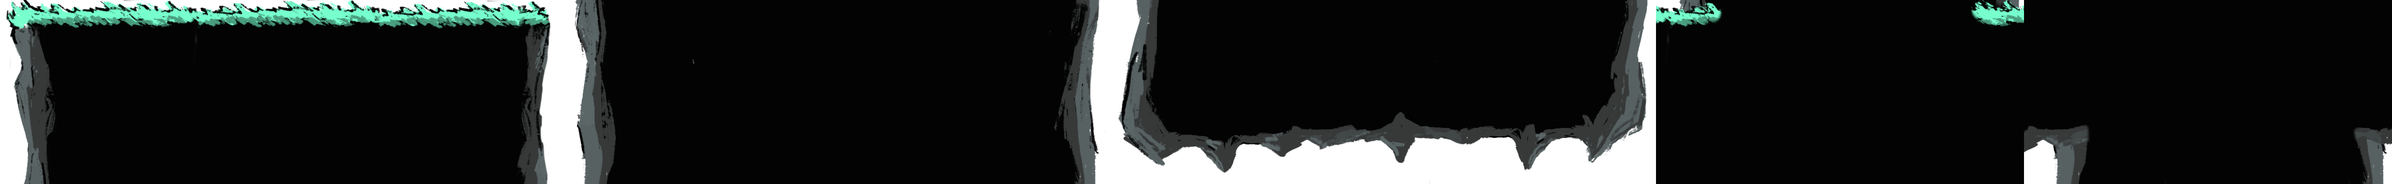
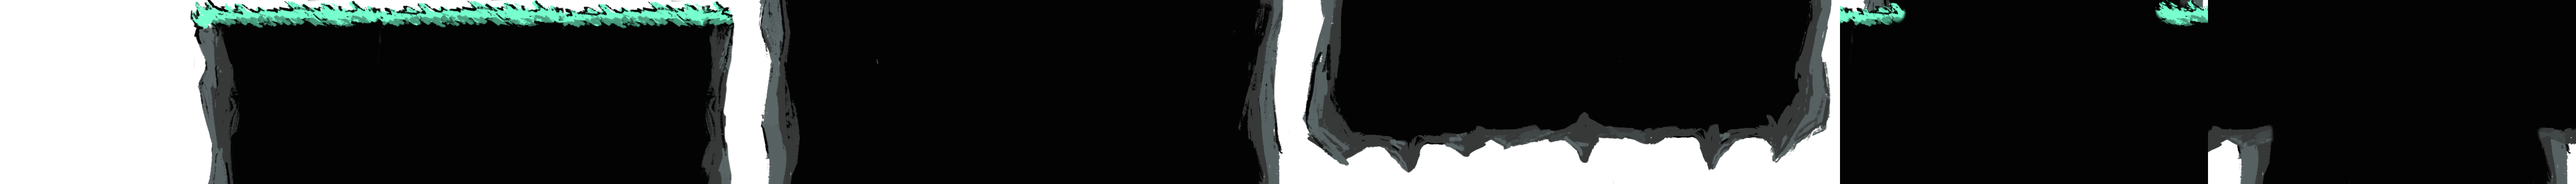
We Have A Map

diff --git a/src/DungeonMap.cpp b/src/DungeonMap.cpp
@@ -41,26 +41,16 @@ DungeonMap::DungeonMap() {
 	{
 		{
 		//	 0 1 2 3 4 5 6 7 8 9 0 1 2 3 4 5 6 7 8 9
-			{0,0,0,0,0,0,0,0,0,0,0,0,0,0,0,0,0,0,0,0},	//	0
-			{0,0,0,0,0,0,0,0,0,0,0,0,0,0,0,0,0,0,0,0},	//	1
-			{0,0,0,0,0,0,0,0,0,0,0,0,0,0,0,0,0,0,0,0},	//	2
-			{0,0,0,0,0,0,0,0,0,0,0,0,0,0,0,0,0,0,0,0},	//	3
-			{0,0,0,0,0,0,0,0,0,0,0,0,0,0,0,0,0,0,0,0},	//	4
-			{0,0,0,0,0,0,0,0,0,0,0,0,0,0,0,0,0,0,0,0},	//	5
-			{0,0,0,0,0,0,0,0,0,0,0,0,0,0,0,0,0,0,0,0},	//	6
-			{0,0,0,0,0,0,0,0,0,0,0,0,0,0,0,0,0,0,0,0},	//	7
-			{0,0,0,0,0,0,0,0,0,0,0,0,0,0,0,0,0,0,0,0},	//	8
-			{0,0,0,0x0000060B,0,0,0x01000309,0,0x0000050A,0,0,0,0,0,0,0,0,0,0,0},	//	9
-			{0,0,0x00000406,0x00000101,0x00000101,0x00000101,0x01000204,0x00000101,0x00000101,0,0,0,0,0,0,0,0,0,0,0}, // 0
-			{0,0,0,0,0,0,0,0,0,0,0,0,0,0,0,0,0,0,0,0},	//	1
-			{0,0,0,0,0,0,0,0,0,0,0,0,0,0,0,0,0,0,0,0},	//	2
-			{0,0,0,0,0,0,0,0,0,0,0,0,0,0,0,0,0,0,0,0},	//	3
-			{0,0,0,0,0,0,0,0,0,0,0,0,0,0,0,0,0,0,0,0},	//	4
-			{0,0,0,0,0,0,0,0,0,0,0,0,0,0,0,0,0,0,0,0},	//	5
-			{0,0,0,0,0,0,0,0,0,0,0,0,0,0,0,0,0,0,0,0},	//	6
-			{0,0,0,0,0,0,0,0,0,0,0,0,0,0,0,0,0,0,0,0},	//	7
-			{0,0,0,0,0,0,0,0,0,0,0,0,0,0,0,0,0,0,0,0},	//	8
-			{0,0,0,0,0,0,0,0,0,0,0,0,0,0,0,0,0,0,0,0},	//	9
+	{0x00000105,0x00000105,0x00000113,0x00000108,0x00000108,0x00000108,0x00000108,0x00000108,0x00000108,0x00000108,0x00000108,0x00000108,0x00000108,0x00000108,0x00000108,0x00000108,0x00000108,0x00000108,0x00000108,0x00000108,0x00000108,0x00000108,0x00000108,0x00000108,0x00000108,0x00000108,0x00000108,0x00000108,0x00000108,0x00000108,0x00000112,0x00000105},
+	{0x00000105,0x00000113,0x00000109,0x00000000,0x00000000,0x00000000,0x00000000,0x00000000,0x00000000,0x00000000,0x00000000,0x00000000,0x00000000,0x00000000,0x00000000,0x00000000,0x00000000,0x00000000,0x00000000,0x00000000,0x00000000,0x00000000,0x00000000,0x00000000,0x00000000,0x00000000,0x00000000,0x00000000,0x00000000,0x00000000,0x00000107,0x00000112},
+	{0x00000105,0x00000106,0x00000000,0x00000000,0x00000000,0x00000000,0x00000000,0x00000000,0x00000000,0x00000000,0x00000000,0x00000000,0x00000000,0x00000000,0x00000000,0x00000000,0x00000000,0x00000000,0x00000000,0x00000000,0x00000000,0x00000000,0x00000000,0x00000000,0x00000000,0x00000000,0x00000000,0x00000000,0x00000000,0x00000000,0x00000000,0x00000104},
+	{0x00000113,0x00000109,0x00000000,0x00000000,0x00000000,0x00000000,0x00000000,0x00000000,0x00000000,0x00000000,0x00000000,0x00000000,0x00000000,0x00000000,0x00000000,0x00000000,0x00000000,0x00000000,0x00000000,0x00000000,0x00000000,0x00000000,0x00000000,0x00000000,0x00000000,0x00000000,0x00000000,0x00000000,0x00000000,0x00000000,0x00000000,0x00000104},
+	{0x00000106,0x00000000,0x00000000,0x00000000,0x00000000,0x00000000,0x00000000,0x00000000,0x00000000,0x00000000,0x00000000,0x00000000,0x00000000,0x00000000,0x00000000,0x00000000,0x00000000,0x00000000,0x00000000,0x00000000,0x00000000,0x00000000,0x00000000,0x00000000,0x00000000,0x00000000,0x00000000,0x00000000,0x00000000,0x00000000,0x00000000,0x00000104},
+	{0x00000106,0x00000000,0x00000000,0x00000000,0x00000000,0x00000000,0x00000000,0x00000000,0x00000000,0x00000000,0x00000000,0x00000000,0x00000000,0x00000000,0x00000000,0x00000000,0x00000000,0x00000000,0x00000000,0x00000000,0x00000000,0x00000000,0x00000101,0x00000000,0x00000000,0x00000000,0x00000000,0x00000000,0x00000000,0x00000000,0x00000000,0x00000104},
+	{0x00000106,0x00000000,0x00000000,0x00000000,0x00000000,0x00000000,0x00000000,0x00000000,0x00000000,0x00000000,0x00000000,0x00000000,0x00000000,0x00000000,0x00000000,0x00000000,0x00000000,0x00000000,0x00000000,0x00000000,0x00000000,0x00000000,0x00000104,0x00000000,0x00000000,0x00000000,0x00000000,0x00000000,0x00000000,0x00000000,0x00000000,0x00000104},
+	{0x00000106,0x00000000,0x00000000,0x00000000,0x00000000,0x00000000,0x00000000,0x00000000,0x00000000,0x00000000,0x00000000,0x00000000,0x00000000,0x00000000,0x00000000,0x00000000,0x00000000,0x00000000,0x00000000,0x00000000,0x00000000,0x00000000,0x00000104,0x00000000,0x00000000,0x00000000,0x00000000,0x00000000,0x00000000,0x00000000,0x00000000,0x00000104},
+	{0x00000106,0x00000000,0x00000000,0x00000000,0x00000000,0x00000000,0x00000000,0x00000000,0x00000101,0x00000103,0x00000000,0x00000000,0x00000000,0x00000000,0x00000106,0x00000102,0x00000102,0x00000102,0x00000102,0x00000102,0x00000102,0x00000102,0x00000105,0x00000102,0x00000102,0x00000102,0x00000102,0x00000102,0x00000102,0x00000102,0x00000102,0x00000110},
+	{0x00000106,0x00000000,0x00000000,0x00000000,0x00000000,0x00000000,0x00000101,0x00000103,0x00000109,0x00000000,0x00000000,0x00000000,0x00000000,0x00000000,0x00000104,0x00000105,0x00000105,0x00000105,0x00000105,0x00000105,0x00000105,0x00000108,0x00000108,0x00000108,0x00000108,0x00000108,0x00000112,0x00000105,0x00000105,0x00000105,0x00000105,0x00000105}
 		}
 	};
 }

diff --git a/src/DungeonMap.h b/src/DungeonMap.h
@@ -75,8 +75,8 @@ public:
 private:
     static constexpr int TileSize = 200;
 	static constexpr int SpriteTileSize = 400;
-    static constexpr int Width = 20;
-    static constexpr int Height = 20;
+    static constexpr int Width = 32;
+    static constexpr int Height = 10;
 
     Grid<int32> map;
 	Array<Point> obstaclePositions;	// positions of objects you can collide with

diff --git a/src/Main.cpp b/src/Main.cpp
@@ -84,7 +84,7 @@ void Main()
 			const Transformer2D ct = camera.CreateTrans();
 
 			dungeon.Draw(mapTex);
-        	dungeon.DrawColliders(colliders);
+        	//dungeon.DrawColliders(colliders);
 			
 			for (const auto& field : grounds)
 			{
